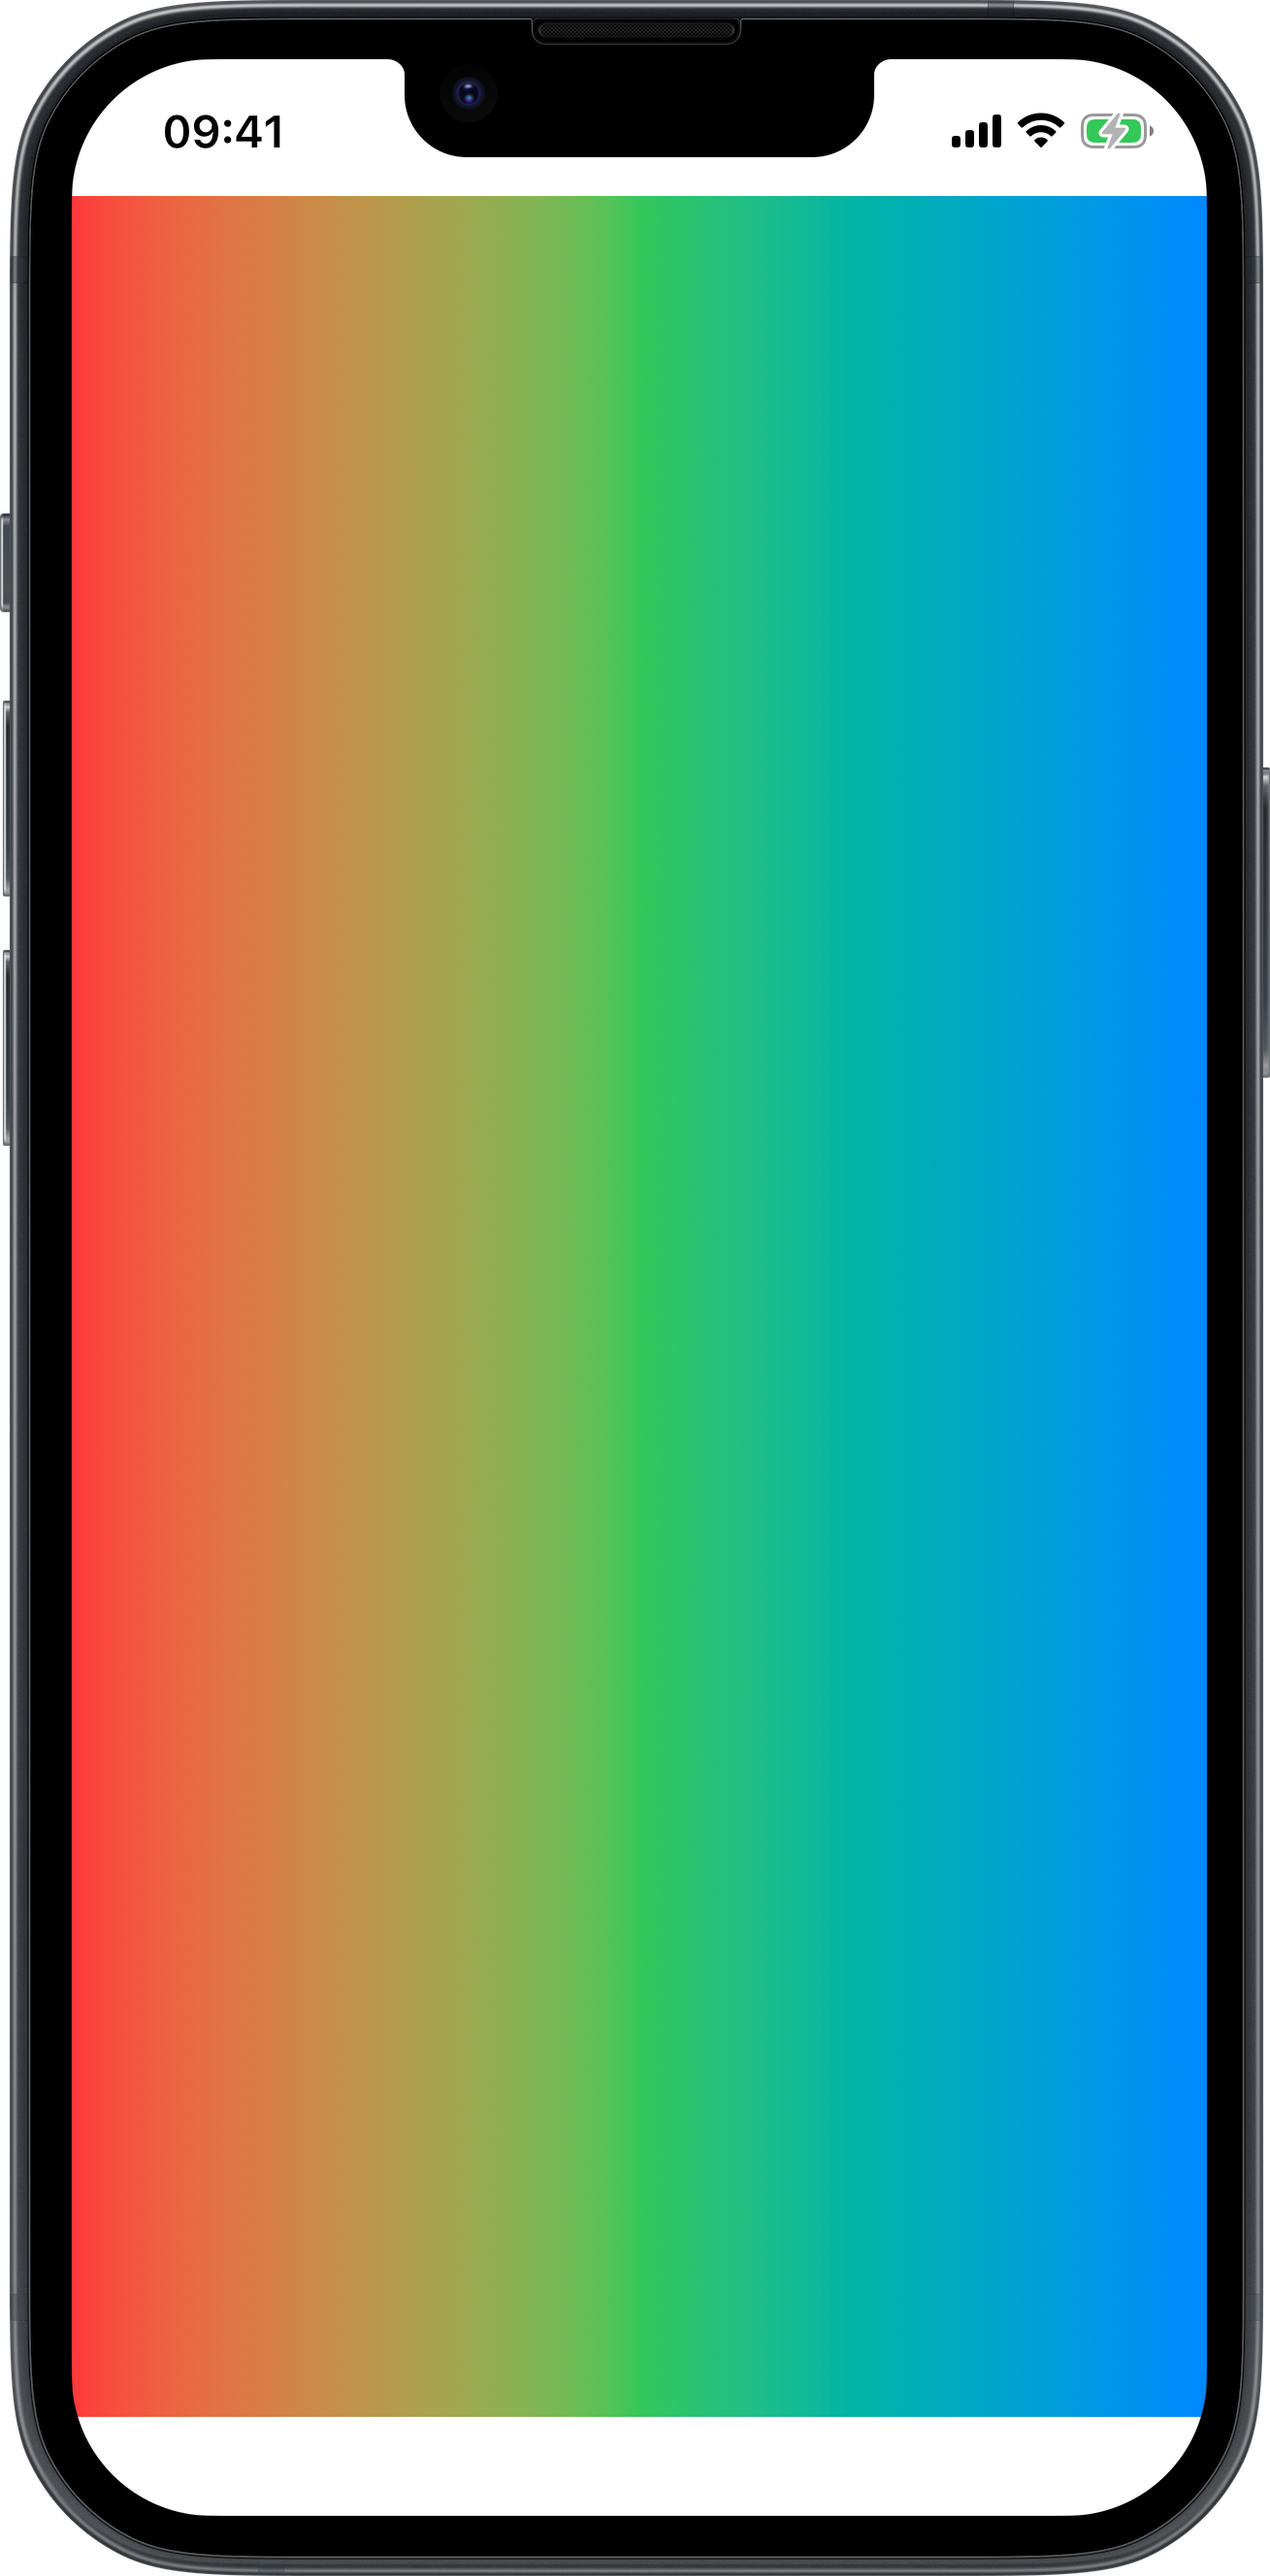
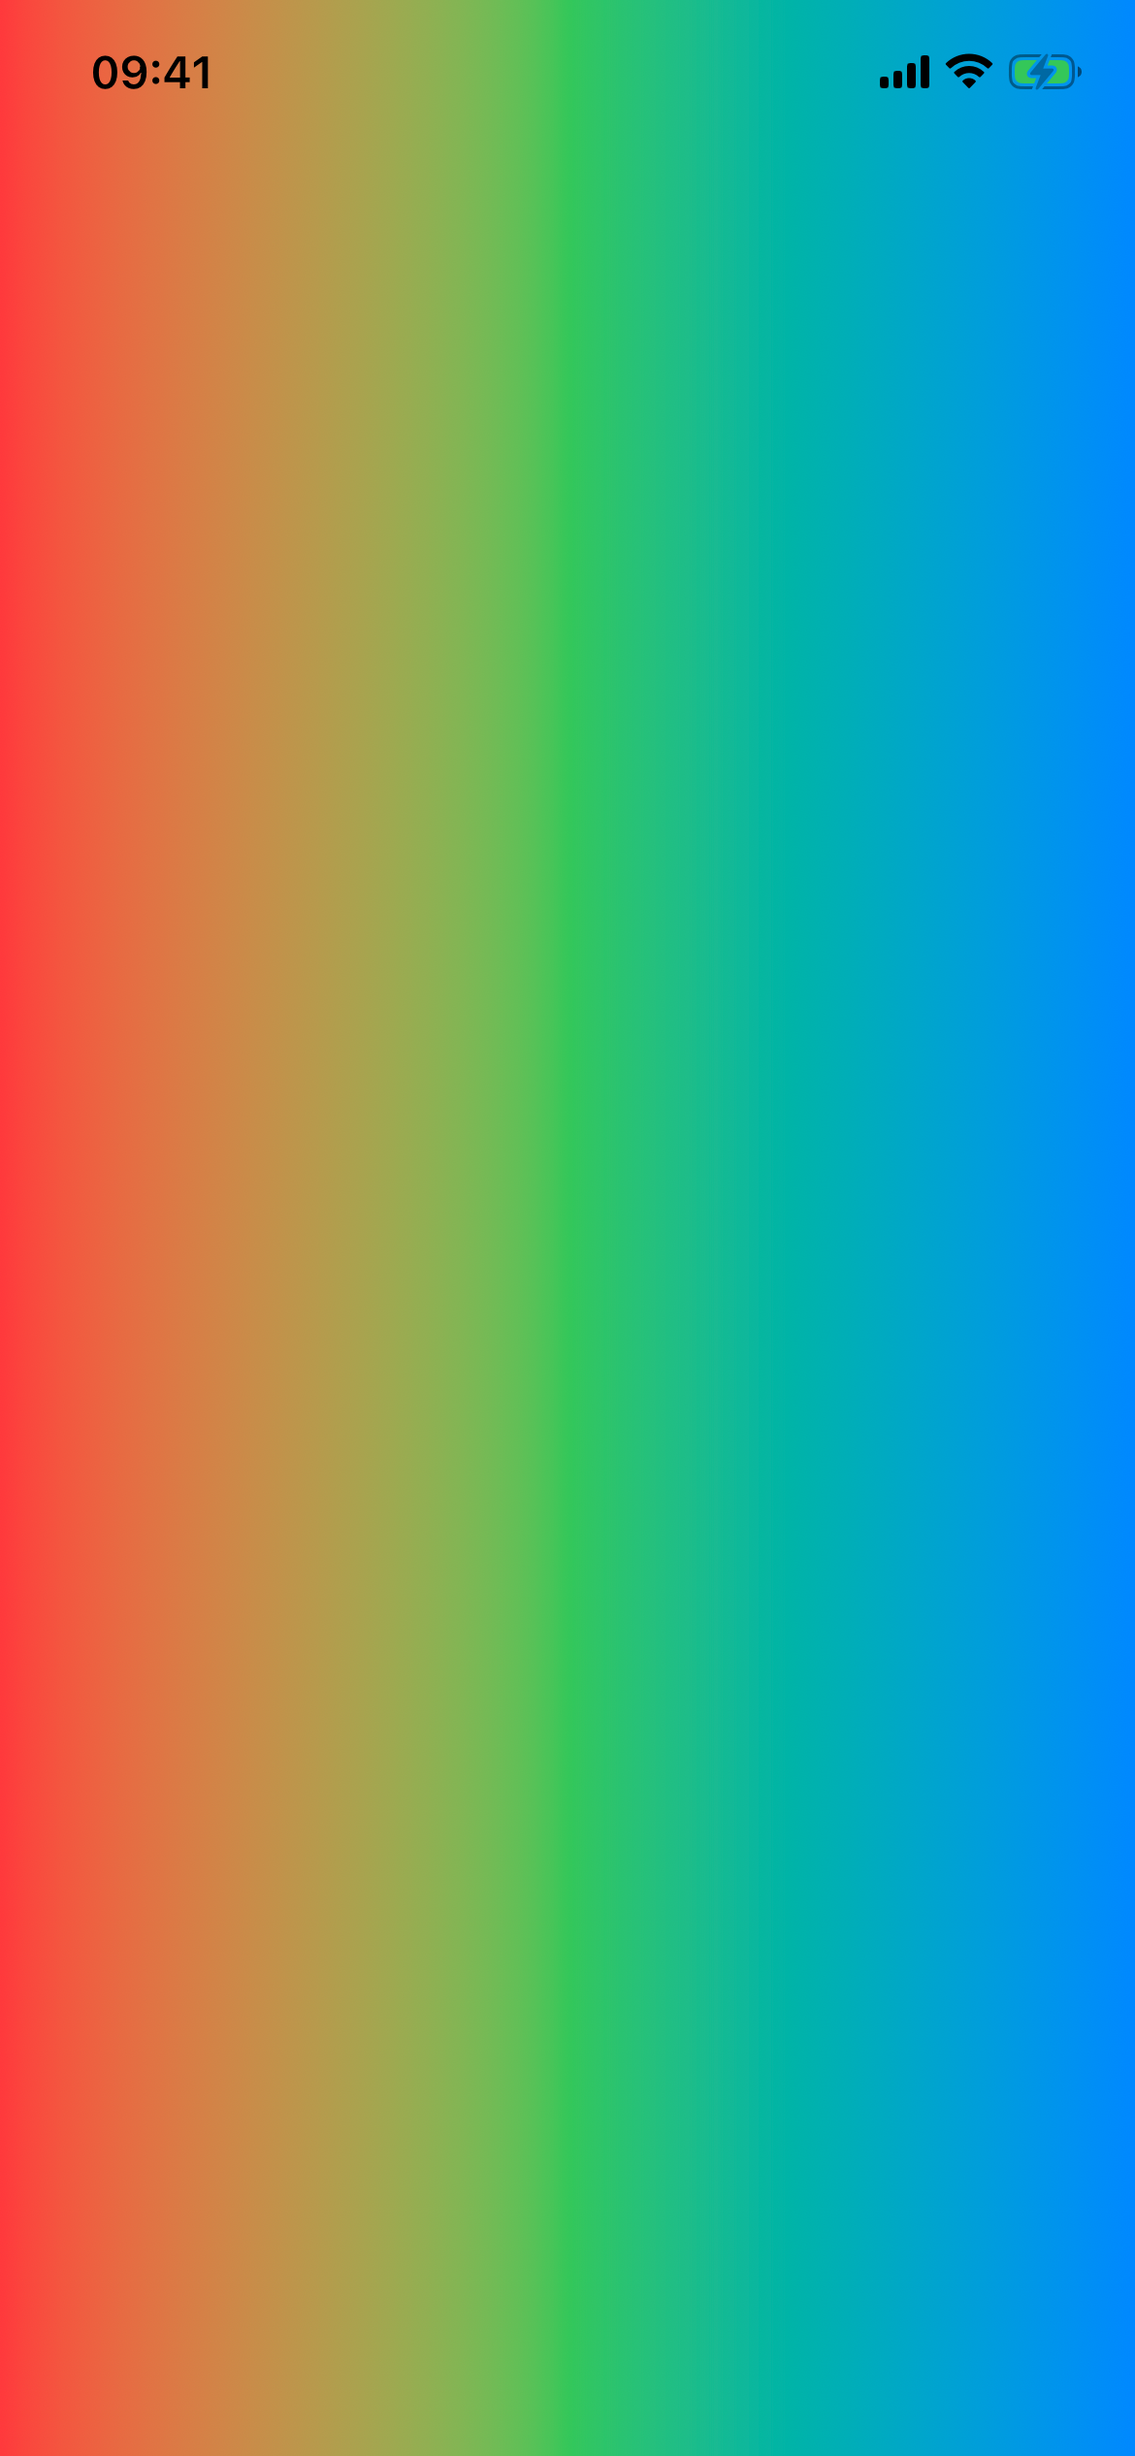
Upd

Changed region(s): [[0.0, 0.0, 1.0, 1.0]]

diff --git a/Views/Paint/lineargradient.md b/Views/Paint/lineargradient.md
@@ -10,7 +10,7 @@ LinearGradient in SwiftUI is a view that creates a linear gradient color transit
 
 ```xml
 <body>
-    <lineargradient gradient="colors:[red,green,blue];startPoint:0.0,0.5;endPoint:1.0,0.5">
+    <lineargradient gradient="colors:[red,green,blue];startPoint:0.0,0.5;endPoint:1.0,0.5" ignoresSafeArea="">
     </lineargradient>
 </body>
 ```
